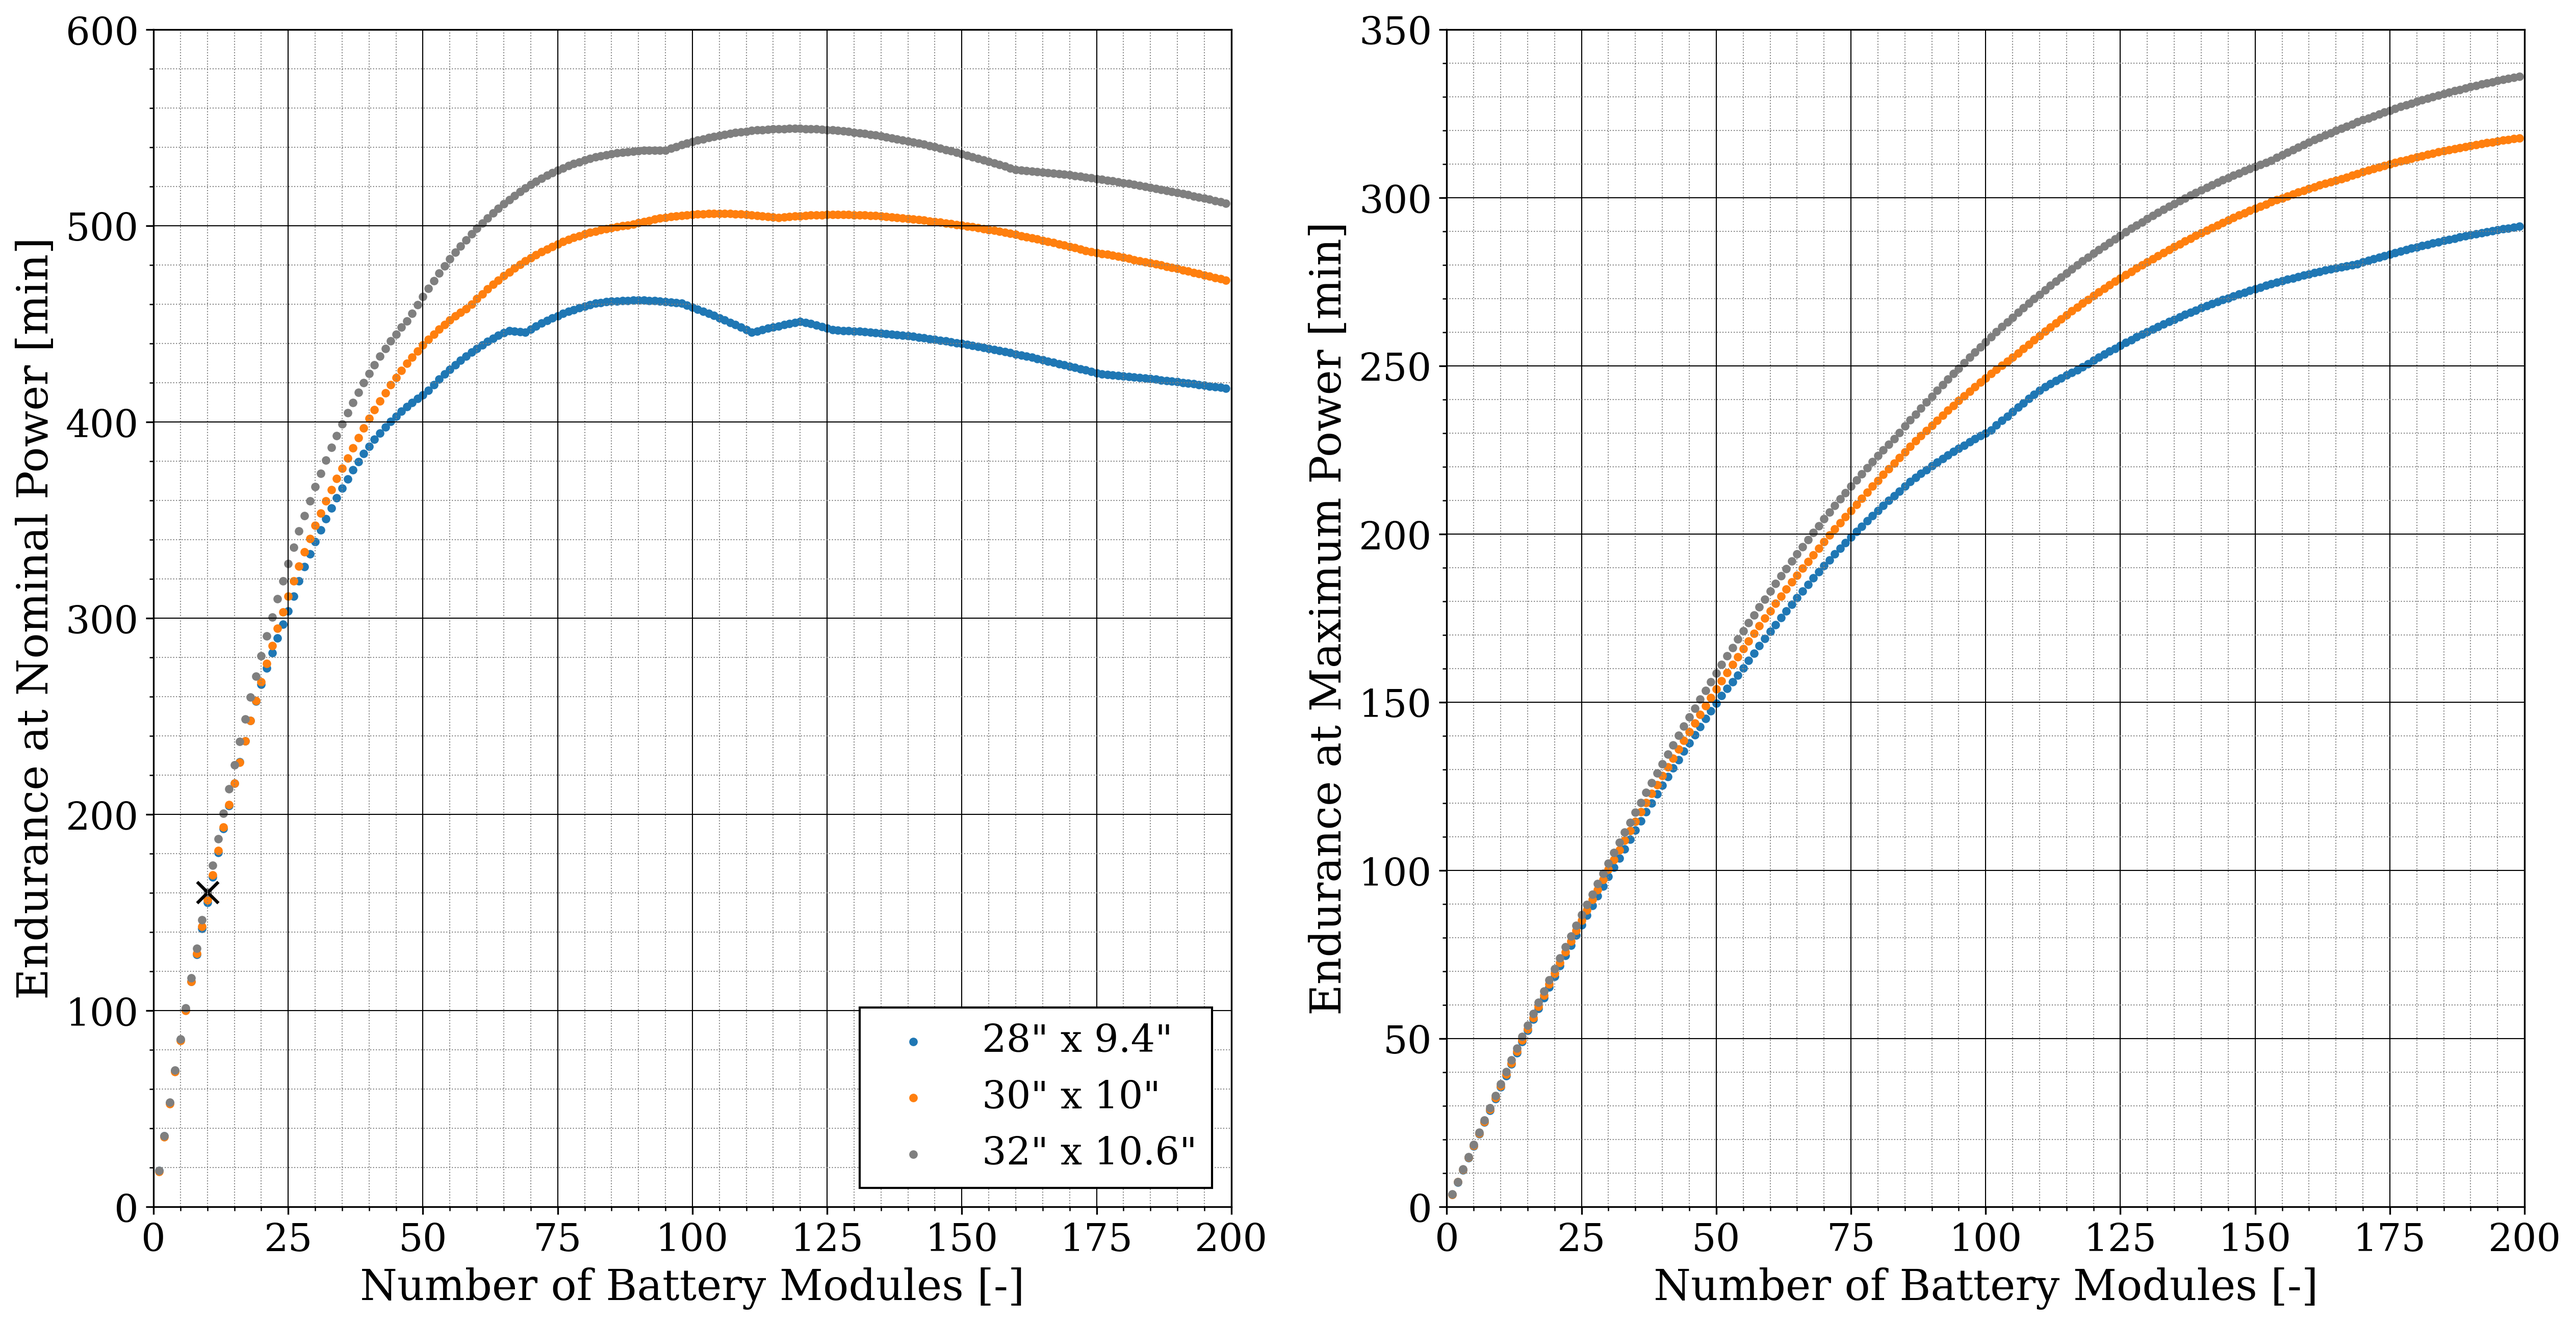
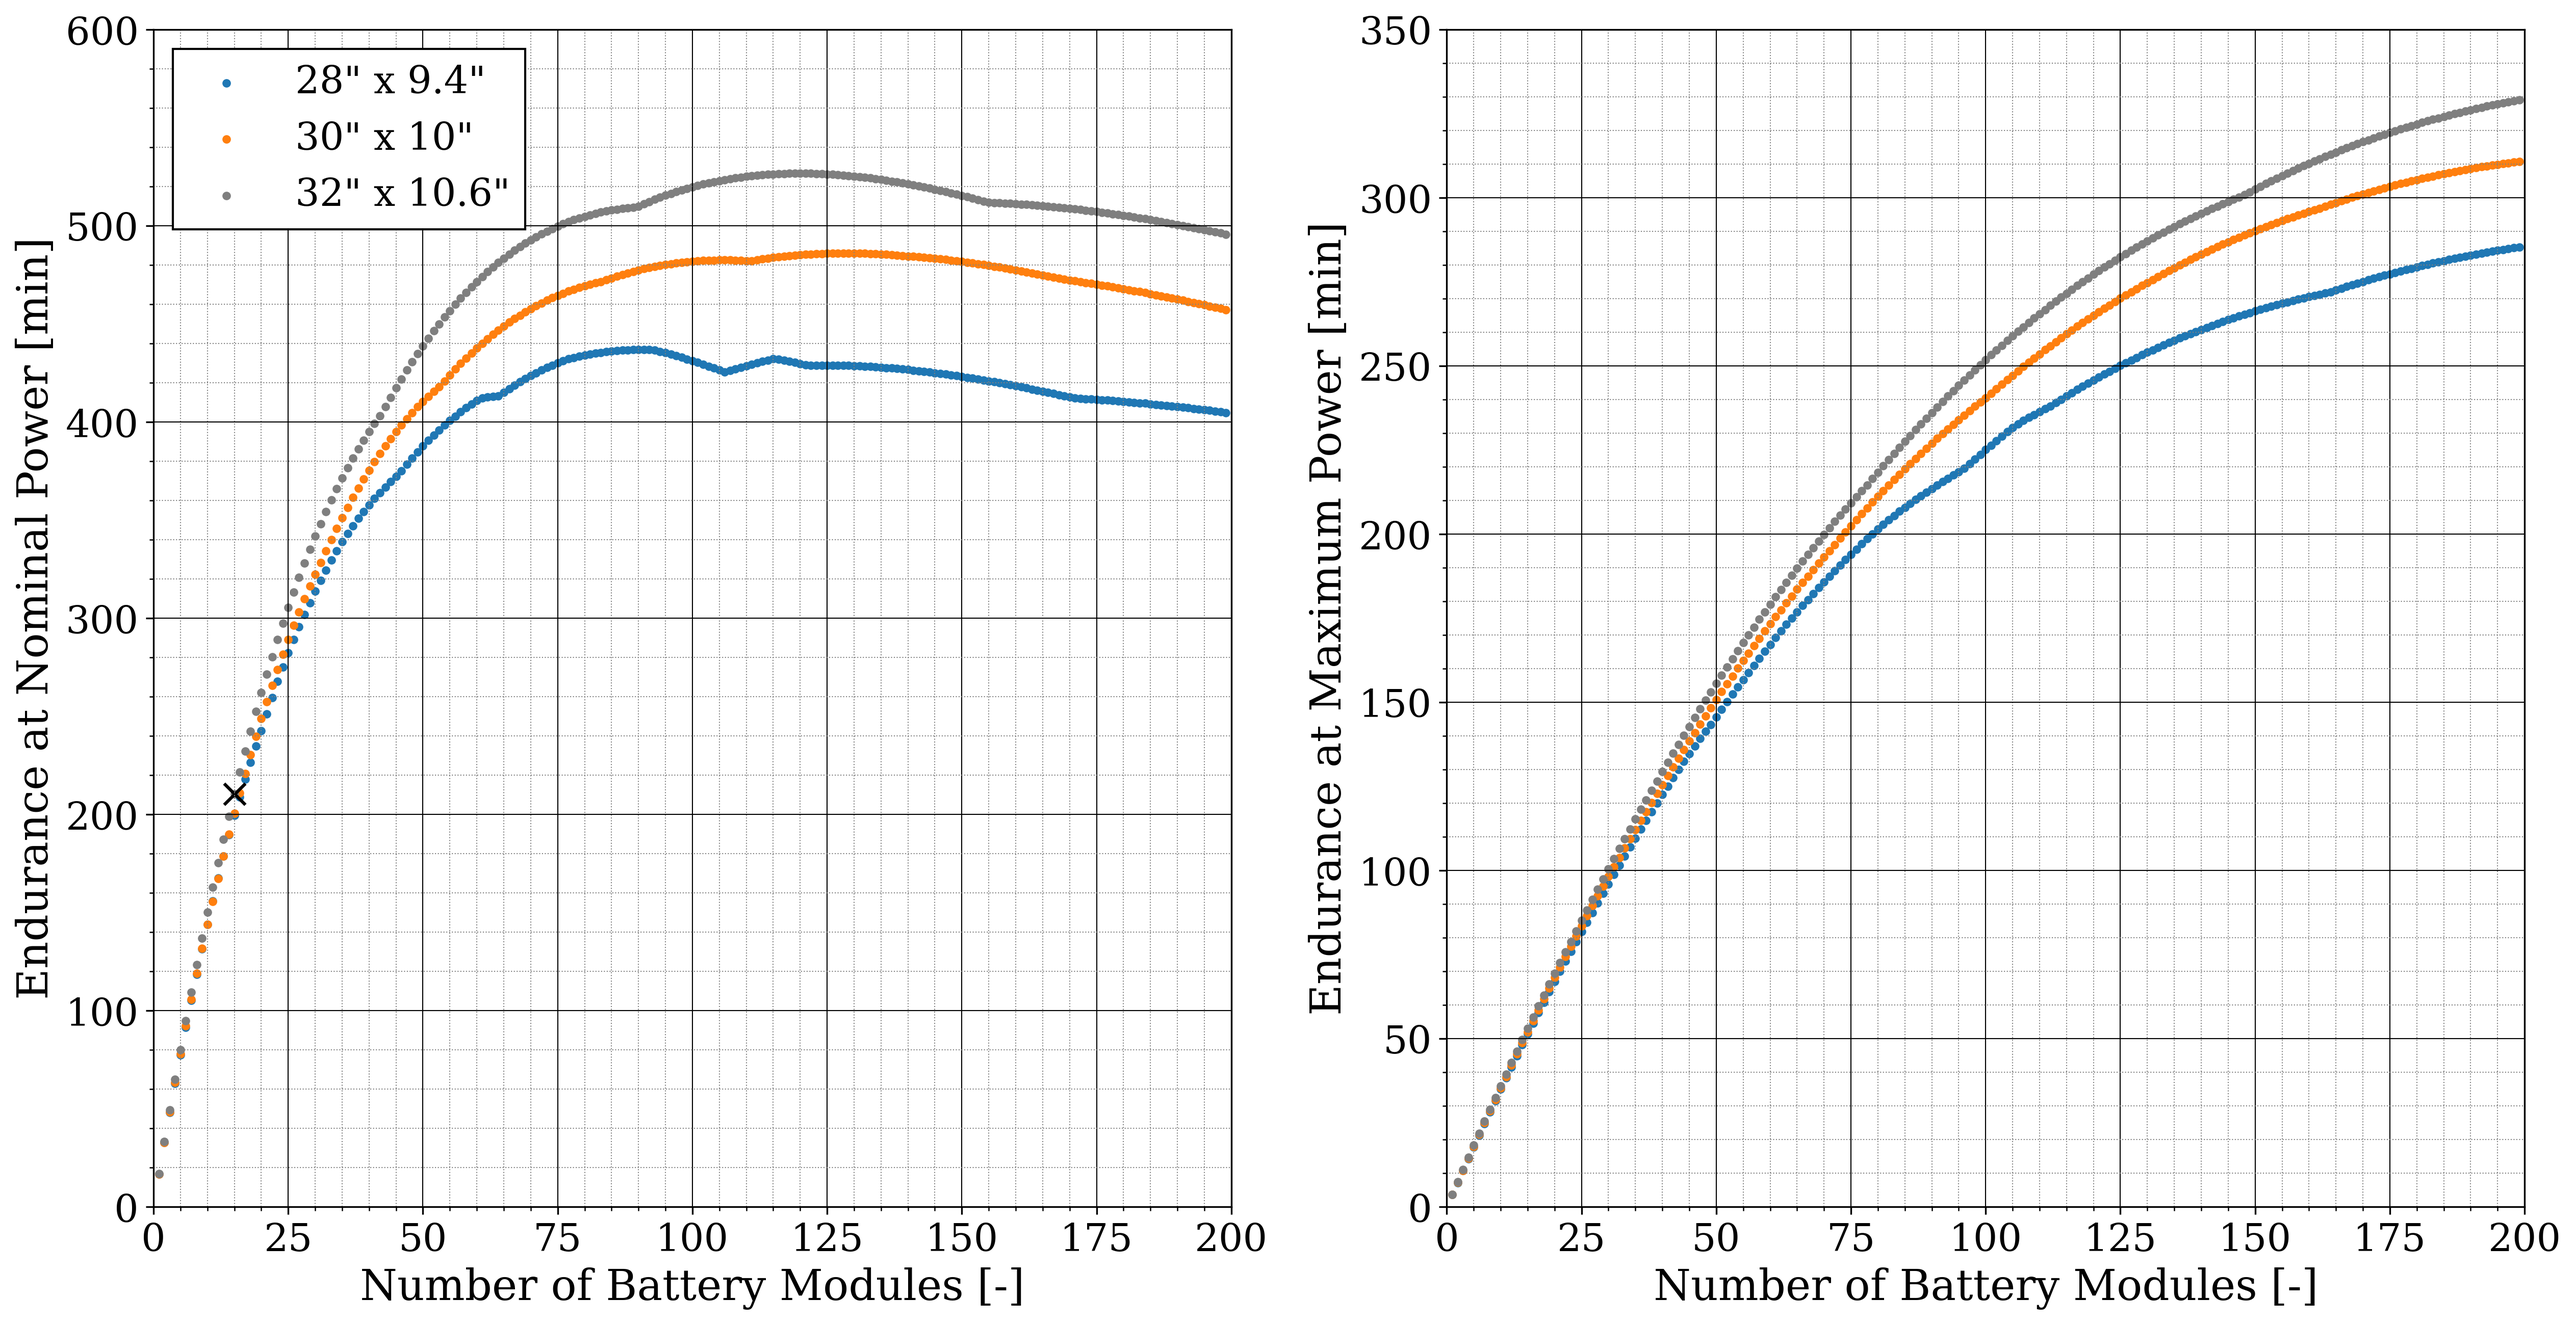
Plume Modelling

diff --git a/Performance/performance.py b/Performance/performance.py
@@ -62,14 +62,14 @@ D_max 		= 0.5 * rho * V_max ** 2 * CD * S # [N] drag force during cruise flight
 
 # Mass budget
 n_propellers	= 8 # [-] number of propellers
-m_sensors 		= 1.248 # [kg] noise and air pollution sensors mass
+m_sensors 		= 2.386 # [kg] noise and air pollution sensors mass
 m_autonomy 		= 0.219 # [kg] autonomy hardware mass
 m_motors 		= n_propellers * 0.630 #[kg] brushless motor mass
 m_propellers 	= n_propellers * 91.46E-3 # [kg] propeller mass
 
 # Frame data
-w_frame = 0.23 # [m] frame width
-h_frame = 0.23 # [m] frame height
+w_frame = 0.236 # [m] frame width
+h_frame = 0.313 # [m] frame height
 
 # Motor data
 V_motor = 36 # [V] nominal voltage of motor
@@ -96,6 +96,8 @@ A_battery = h_cell * n_series * t_cell
 A_battery = 1.05 * A_battery # contingency margin for cooling / packaging
 
 n_max = floor(A_frame / A_battery) - 1
+
+print(n_max * m_battery)
 
 # Import propeller data from excel file in the following format
 # ['Motor Speed [1/s', 'Thrust [N]', 'Torque [Nm]', 'Voltage[V]', 'Current [A]']
